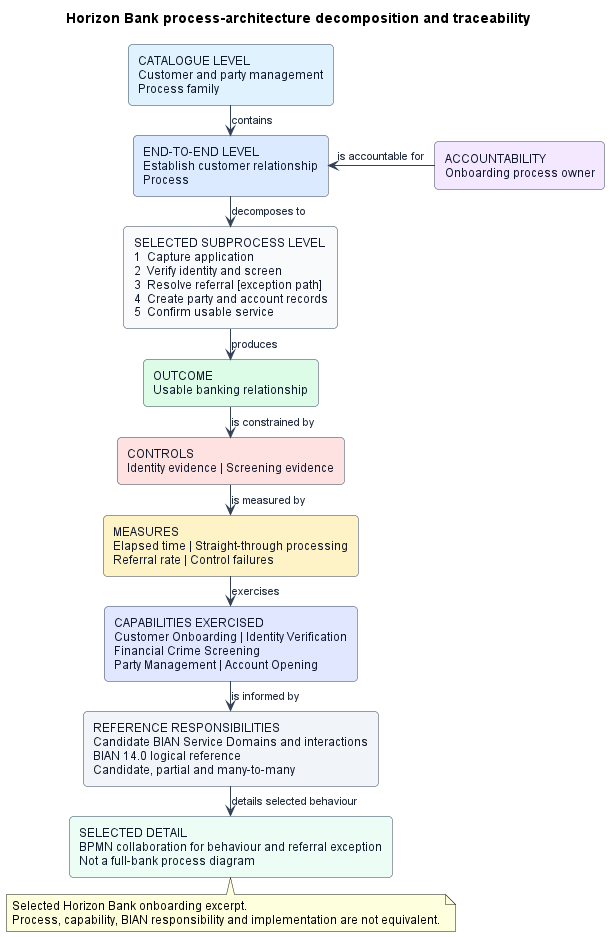
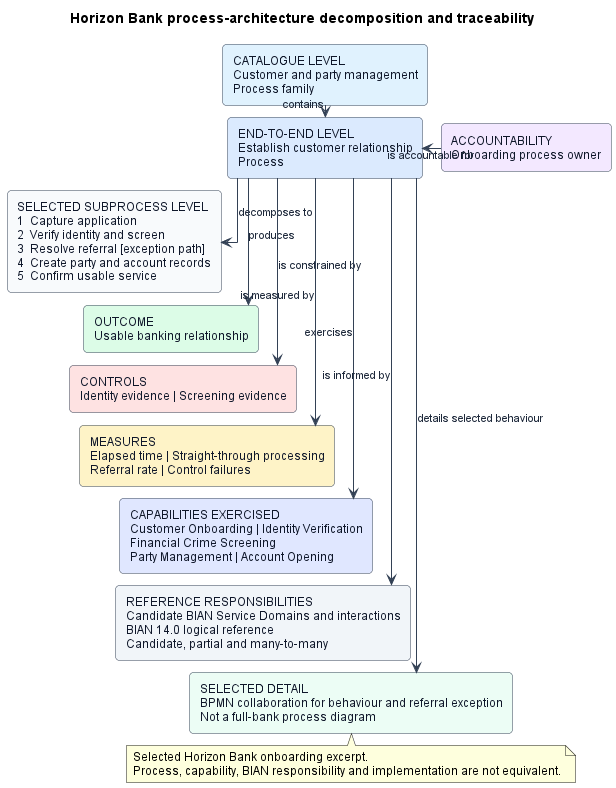
Correct Chapter 34 process trace semantics

Changed region(s): [[0.0, 0.0, 0.9984, 1.0], [0.5928, 0.8223, 0.624, 0.8528]]

diff --git a/diagrams/specifications/FIG-34-01-horizon-bank-process-architecture-traceability.md b/diagrams/specifications/FIG-34-01-horizon-bank-process-architecture-traceability.md
@@ -77,4 +77,4 @@ The decomposition, mappings and visual composition are original author guidance.
 
 ## Production review, 2026-07-12
 
-PlantUML produced native 610 by 938 pixel SVG and PNG exports without post-render scaling. SVG inspection confirms 12-pixel node text, 11-pixel relationship text and a 14-pixel title. Original-resolution and intended-page-width visual review found no clipped text, overlaps or ambiguous arrow direction. The process owner points to the process with `is accountable for`; the selected process scope, exception subprocess, other labelled relationships, BIAN caution and chapter caption agree. Status remains `Review`.
+PlantUML produced native 617 by 789 pixel SVG and PNG exports without post-render scaling. SVG inspection confirms 12-pixel node text, 11-pixel relationship text and a 14-pixel title. Original-resolution and intended-page-width review found no clipped node text or ambiguous arrow direction. Hidden vertical layout links carry no business meaning. The process is the source of `produces`, `is constrained by`, `is measured by`, `exercises`, `is informed by` and `details selected behaviour`; the owner points to the process with `is accountable for`. The selected scope, BIAN caution and chapter caption agree. Status remains `Review`.

diff --git a/reviews/chapter-gates/CH-34-quality-gate.md b/reviews/chapter-gates/CH-34-quality-gate.md
@@ -9,7 +9,7 @@
 |---|---|---|
 | Required sections | Pass | Complete beginner-first manuscript within target range |
 | Primary sources | Pass | Current official BIAN 14.0 and portal material plus OMG BPMN 2.0.2 |
-| Diagram | Pass for author review | Specification checkpoint dated 2026-07-12; native 610 by 938 pixel PlantUML, SVG and PNG use 12-pixel node text and 11-pixel relationship text; visual inspection found no clipping, overlap or ambiguous arrows; owner points to process with `is accountable for` |
+| Diagram | Pass for author review | Specification checkpoint dated 2026-07-12; native 617 by 789 pixel PlantUML, SVG and PNG use 12-pixel node text and 11-pixel relationship text; each process trace is independent, owner points to process with `is accountable for`, and hidden links carry layout only |
 | Examples and terminology | Pass | Horizon Bank catalogue and onboarding excerpt use controlled capability names and explicit local recommendations |
 | Four review passes | Pass | Technical, beginner, consistency and final reviews recorded |
 | Open issues | Pass | Only author review and decision acceptance remain; statuses do not exceed Review or Ready for Author Approval |

diff --git a/reviews/final-review/chapter-34-review-2026-07-12.md b/reviews/final-review/chapter-34-review-2026-07-12.md
@@ -4,4 +4,4 @@
 - **Date:** 2026-07-12
 - **Outcome:** Pass
 
-Purpose, outcomes, required artefacts, source boundaries, worked example, mistakes, summary, checklist, takeaways, exercise and references are complete. `FIG-34-01` was rendered natively at 610 by 938 pixels and inspected at original and intended page width. It has 12-pixel node text and 11-pixel relationship text, with no clipping, overlap or ambiguous direction. It remains at `Review`; only author review and the proposed decision remain open.
+Purpose, outcomes, required artefacts, source boundaries, worked example, mistakes, summary, checklist, takeaways, exercise and references are complete. `FIG-34-01` was rendered natively at 617 by 789 pixels and inspected at original and intended page width. It has 12-pixel node text and 11-pixel relationship text, with no clipped node text or ambiguous direction. Each semantic trace arrow originates at the process; hidden links only constrain layout. It remains at `Review`; only author review and the proposed decision remain open.

diff --git a/reviews/technical-review/chapter-34-review-2026-07-12.md b/reviews/technical-review/chapter-34-review-2026-07-12.md
@@ -6,4 +6,4 @@
 
 Process hierarchy, catalogue, classification, ownership, controls, measures, exceptions and repository governance are technically coherent. Official OMG and BIAN evidence supports formal claims. The chapter does not treat a BIAN Service Domain as a process step, application or microservice, and it avoids claiming one universal BPMN model. No unresolved critical or major finding.
 
-Figure correction evidence: the accountability arrow runs from `Onboarding process owner` to `Establish customer relationship` and is labelled `is accountable for`. Native output is 610 by 938 pixels with 12-pixel node text and 11-pixel relationship text.
+Figure correction evidence: the accountability arrow runs from `Onboarding process owner` to `Establish customer relationship` and is labelled `is accountable for`. The process is independently the source of every trace relationship; hidden layout links have no semantics. Native output is 617 by 789 pixels with 12-pixel node text and 11-pixel relationship text.

diff --git a/CHANGELOG.md b/CHANGELOG.md
@@ -1,5 +1,6 @@
 # Changelog
 
+- Corrected `FIG-34-01` trace semantics so every outcome, control, measure, capability, BIAN and detail relationship originates independently at the end-to-end process. Hidden links now constrain layout only; native output is 617 by 789 pixels with 12-pixel node and 11-pixel relationship text.
 - Improved `FIG-34-01` page readability by regenerating it natively at 610 by 938 pixels without post-render scaling. Confirmed 12-pixel node text, 11-pixel relationship text and the semantically directed `is accountable for` owner-to-process relationship.
 - Completed Chapter 34, *Complete Bank Business Process Architecture*, with a full-bank process catalogue, hierarchy, classifications, ownership, controls, measures, exceptions, BIAN relationship guidance, governance and worked onboarding example.
 - Added, rendered and visually inspected `FIG-34-01` after its separate 2026-07-12 specification checkpoint; the figure remains at `Review`.